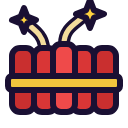
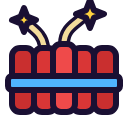
Power-ups: blue trim at level 2, gold at level 3; Magnet level 2 and 3 reshaped
Claude-Session: https://claude.ai/code/session_01Eixp3MaR2R82VtNQ8AyK7x

Changed region(s): [[0.0625, 0.5938, 0.9375, 0.6875]]

diff --git a/src/graphics/powerup_models.cpp b/src/graphics/powerup_models.cpp
@@ -191,11 +191,16 @@ constexpr std::uint32_t purple = 0x8A3DF0, lilac = 0xC9A2FF, orange = 0xF28A2E, 
                         gold = 0xF2C53D, pink_tip = 0xF0D0F0, ring_green = 0x2FCF4A, atom_purple = 0xA24BFF, orbit = 0xB78CFF, electron = 0xFFD23F,
                         white = 0xF4F1EA, flame = 0xFFA63F, gun_green = 0x2FBF68, grip_green = 0x1F8A4C, beam = 0x6FFFB0, spark_blue = 0x6FD3FF;
 
+// The level's trim (the owner, 2026-11-21: one rule for levelling up): each
+// power-up's trim (stripes, band, tips, orbits, rings) is its own colour at
+// level 1, blue at level 2 and gold at level 3 (as the icons, powerups.py).
+std::uint32_t trim(int level, std::uint32_t base) { return level == 1 ? base : level == 2 ? 0x4FB4FFu : 0xFFC53Du; }
+
 // The models, each in the first part's space of the game's own (its units).
 // Firecracker: along z from about +1,600 (the fuse's end) to -5,800 (the
 // cone's tip), about 1,000 across.
-std::vector<Part> one_rocket() {
-    Part body{purple, {}}, stripes{lilac, {}}, tip{orange, {}}, fuse{fuse_tan, {}};
+std::vector<Part> one_rocket(std::uint32_t stripe = lilac) {
+    Part body{purple, {}}, stripes{stripe, {}}, tip{orange, {}}, fuse{fuse_tan, {}};
     tube(body, 0.0f, -4200.0f, 620.0f);
     for (int s = 0; s < 3; ++s) tube(stripes, -900.0f - 1200.0f * float(s), -1300.0f - 1200.0f * float(s), 650.0f, 8, false);
     cone(tip, -4200.0f, -5800.0f, 820.0f);
@@ -204,17 +209,18 @@ std::vector<Part> one_rocket() {
 }
 std::vector<Part> firecracker(int level) {
     if (level == 1) return one_rocket();
-    if (level == 2) return placed(one_rocket(), place_at(V3{0, 0, 600}), 1.2f);
+    const std::uint32_t t = trim(level, lilac);
+    if (level == 2) return placed(one_rocket(t), place_at(V3{0, 0, 600}), 1.2f);
     // Three rockets, side by side, the middle one higher.
-    auto out = placed(one_rocket(), turned(0, -12, 0, V3{-1500, 0, 400}), 0.8f);
-    out = merged(out, placed(one_rocket(), turned(0, 12, 0, V3{1500, 0, 400}), 0.8f));
-    return merged(out, placed(one_rocket(), place_at(V3{0, 0, -300}), 0.85f));
+    auto out = placed(one_rocket(t), turned(0, -12, 0, V3{-1500, 0, 400}), 0.8f);
+    out = merged(out, placed(one_rocket(t), turned(0, 12, 0, V3{1500, 0, 400}), 0.8f));
+    return merged(out, placed(one_rocket(t), place_at(V3{0, 0, -300}), 0.85f));
 }
 
 // Dynamite: sticks along y, from about -1,500 to 1,500, fuses above to 2,100,
 // across x and z about ±770.
 std::vector<Part> dynamite(int level) {
-    Part sticks{red, {}}, front{bright_red, {}}, band{gold, {}}, fuse{fuse_tan, {}}, spark{electron, {}};
+    Part sticks{red, {}}, front{bright_red, {}}, band{trim(level, gold), {}}, fuse{fuse_tan, {}}, spark{electron, {}};
     std::vector<std::pair<float, float>> at;  // x, z of each stick
     if (level == 1) at = {{-640, 0}, {0, 0}, {640, 0}};
     else if (level == 2) at = {{-1280, 0}, {-640, 0}, {0, 0}, {640, 0}, {1280, 0}};
@@ -239,27 +245,41 @@ std::vector<Part> dynamite(int level) {
 
 // Electro Magnet: its claws point along -z (to about -3,700) from a green
 // ring at about z 150 to 730, about 940 across.
-std::vector<Part> horseshoe(float s) {
-    Part arms{red, {}}, tips{pink_tip, {}}, base{ring_green, {}}, sparks{spark_blue, {}};
+std::vector<Part> horseshoe(float s, std::uint32_t tip, bool sparks_on) {
+    Part arms{red, {}}, tips{tip, {}}, sparks{spark_blue, {}};
     box(arms, place_at(V3{-650 * s, 0, -900 * s}), 280 * s, 320 * s, 1500 * s);
     box(arms, place_at(V3{650 * s, 0, -900 * s}), 280 * s, 320 * s, 1500 * s);
     box(arms, place_at(V3{0, 0, 520 * s}), 930 * s, 320 * s, 260 * s);
     box(tips, place_at(V3{-650 * s, 0, -2700 * s}), 300 * s, 340 * s, 300 * s);
     box(tips, place_at(V3{650 * s, 0, -2700 * s}), 300 * s, 340 * s, 300 * s);
-    ring(base, place_at(V3{0, 0, 900 * s}), 950 * s, 180 * s);
-    for (int side = -1; side <= 1; side += 2)
-        chain(sparks, {V3{side * 1300 * s, 0, -1800 * s}, V3{side * 1600 * s, 0, -1500 * s}, V3{side * 1350 * s, 0, -1200 * s}, V3{side * 1650 * s, 0, -900 * s}}, 55 * s);
-    return {arms, tips, base, sparks};
+    if (sparks_on)
+        for (int side = -1; side <= 1; side += 2)
+            chain(sparks, {V3{side * 1300 * s, 0, -1800 * s}, V3{side * 1600 * s, 0, -1500 * s}, V3{side * 1350 * s, 0, -1200 * s}, V3{side * 1650 * s, 0, -900 * s}}, 55 * s);
+    return {arms, tips, sparks};
 }
 std::vector<Part> magnet(int level) {
-    if (level < 3) return horseshoe(level == 1 ? 1.0f : 1.2f);
-    // The game's own form: four claws curving up and out of the ring.
-    Part claws{red, {}}, tips{pink_tip, {}}, base{ring_green, {}};
+    // Level 1 a horseshoe; level 2 two, fanned out (the owner: a clear step);
+    // level 3 the game's own form, four claws that curve out and hook back in
+    // at the top (the owner); all on the green ring.
+    Part base{ring_green, {}};
+    if (level == 1) {
+        ring(base, place_at(V3{0, 0, 900}), 950.0f, 180.0f);
+        return merged(horseshoe(1.0f, pink_tip, true), {base});
+    }
+    if (level == 2) {
+        ring(base, place_at(V3{0, 0, 900}), 1500.0f, 200.0f);
+        auto out = placed(horseshoe(0.8f, trim(2, pink_tip), false), turned(0, -18, 0, V3{-950, 0, 300}), 1.0f);
+        out = merged(out, placed(horseshoe(0.8f, trim(2, pink_tip), false), turned(0, 18, 0, V3{950, 0, 300}), 1.0f));
+        return merged(out, {base});
+    }
+    Part claws{red, {}}, tips{trim(3, pink_tip), {}};
     for (int k = 0; k < 4; ++k) {
         const float a = 6.2831853f * (float(k) + 0.5f) / 4.0f, cx = std::cos(a), cy = std::sin(a);
-        const std::vector<V3> pts{V3{cx * 500, cy * 500, 600}, V3{cx * 700, cy * 700, -500}, V3{cx * 1100, cy * 1100, -1700}, V3{cx * 1600, cy * 1600, -2700}};
+        // Out from the ring, round, and back in at the top, the tip pointing inwards.
+        const std::vector<V3> pts{V3{cx * 500, cy * 500, 600}, V3{cx * 1100, cy * 1100, -400}, V3{cx * 1550, cy * 1550, -1500},
+                                  V3{cx * 1450, cy * 1450, -2500}, V3{cx * 900, cy * 900, -3100}};
         chain(claws, pts, 230.0f);
-        ball(tips, place_at(pts.back() + V3{cx * 80, cy * 80, -150}), 300.0f, 3, 6);
+        ball(tips, place_at(pts.back() + V3{-cx * 150, -cy * 150, 60}), 300.0f, 3, 6);
     }
     ring(base, place_at(V3{0, 0, 700}), 900.0f, 200.0f);
     return {claws, tips, base};
@@ -268,7 +288,7 @@ std::vector<Part> magnet(int level) {
 // Atom: about its middle, the nucleus about 1,000 across, its electrons about
 // 1,400 out.
 std::vector<Part> atom(int level) {
-    Part nucleus{atom_purple, {}}, orbits{orbit, {}}, electrons{electron, {}};
+    Part nucleus{atom_purple, {}}, orbits{trim(level, orbit), {}}, electrons{electron, {}};
     ball(nucleus, Place{}, level == 1 ? 480.0f : 560.0f, 5, 10);
     const int n_orbits = level < 3 ? 3 : 4, per = level == 1 ? 1 : 2;
     for (int o = 0; o < n_orbits; ++o) {
@@ -284,11 +304,11 @@ std::vector<Part> atom(int level) {
 }
 
 // Bomb: a missile along z, its nose to -z (about -4,000), fins about ±1,500.
-std::vector<Part> missile(float flame_len) {
-    Part body{white, {}}, reds{red, {}}, fire{flame, {}};
+std::vector<Part> missile(float flame_len, std::uint32_t band_colour = red) {
+    Part body{white, {}}, reds{red, {}}, band{band_colour, {}}, fire{flame, {}};
     tube(body, 1100.0f, -2400.0f, 700.0f);
     tube(reds, Place{}, -2400.0f, -3900.0f, 700.0f, 0.0f, 8, true);
-    tube(reds, -700.0f, -1100.0f, 730.0f, 8, false);
+    tube(band, -700.0f, -1100.0f, 730.0f, 8, false);
     for (int k = 0; k < 4; ++k) {
         const Place pl = turned(0, 0, 45.0f + 90.0f * float(k));
         Place fin = pl;
@@ -296,25 +316,26 @@ std::vector<Part> missile(float flame_len) {
         box(reds, fin, 450.0f, 70.0f, 400.0f);
     }
     tube(fire, Place{}, 1100.0f, 1100.0f + flame_len, 450.0f, 0.0f, 8, true);
-    return {body, reds, fire};
+    return {body, reds, band, fire};
 }
 std::vector<Part> bomb(int level) {
     if (level == 1) return missile(700.0f);
-    if (level == 2) return placed(missile(1200.0f), Place{}, 1.15f);
-    return merged(placed(missile(900.0f), place_at(V3{-1100, 0, 200}), 0.72f), placed(missile(900.0f), place_at(V3{1100, 0, -200}), 0.72f));
+    if (level == 2) return placed(missile(1200.0f, trim(2, red)), Place{}, 1.15f);
+    return merged(placed(missile(900.0f, trim(3, red)), place_at(V3{-1100, 0, 200}), 0.72f),
+                  placed(missile(900.0f, trim(3, red)), place_at(V3{1100, 0, -200}), 0.72f));
 }
 
 // Ray Gun: its barrel to -z, about ±1,800 across, -3,500 to 900 along z.
 std::vector<Part> raygun(int level) {
-    Part body{gun_green, {}}, grip{grip_green, {}}, rings{gold, {}}, ray{beam, {}};
+    Part body{gun_green, {}}, grip{grip_green, {}}, rings{trim(level, gold), {}}, nozzle{gold, {}}, ray{beam, {}};
     tube(body, Place{}, 900.0f, -900.0f, 900.0f, 800.0f, 10, true);
-    tube(rings, Place{}, -900.0f, -2300.0f, 500.0f, 260.0f, 8, true);
+    tube(nozzle, Place{}, -900.0f, -2300.0f, 500.0f, 260.0f, 8, true);
     for (int r = 0; r < (level == 1 ? 2 : 3); ++r) tube(rings, 400.0f - 500.0f * float(r), 150.0f - 500.0f * float(r), 940.0f, 10, true);
     box(grip, turned(-20, 0, 0, V3{0, -1200, 500}), 280.0f, 700.0f, 300.0f);
     const float reach = level == 1 ? 900.0f : level == 2 ? 1200.0f : 1500.0f, width = level == 1 ? 90.0f : level == 2 ? 150.0f : 220.0f;
     tube(ray, -2300.0f, -2300.0f - reach, width, 6);
     if (level == 3) ball(ray, place_at(V3{0, 0, -2400}), 380.0f, 3, 8);
-    return {body, grip, rings, ray};
+    return {body, grip, rings, nozzle, ray};
 }
 
 std::vector<Part> model(int kind, int level) {

diff --git a/tools/art/powerups.py b/tools/art/powerups.py
@@ -13,6 +13,17 @@ INK = '#1a1033'
 O = f'stroke="{INK}" stroke-width="3" stroke-linejoin="round" stroke-linecap="round"'
 
 
+# The level's trim (the owner, 2026-11-21: "different colour stripes", one rule
+# for levelling up; level 2 more blue): each power-up's trim (stripes, band,
+# tips, orbits, rings) is its own colour at level 1 (as the game's models), blue
+# at level 2 and gold at level 3, the same parts on every power-up.
+BLUE, GOLD = '#4fb4ff', '#ffc53d'
+
+
+def accent(level, base, yellow=False):
+    return base if level == 1 else BLUE if level == 2 else GOLD
+
+
 def fuse(d):
     # A light fuse with a dark edge, so it shows on the dark panel.
     return (f'<path d="{d}" fill="none" stroke="{INK}" stroke-width="6" stroke-linecap="round"/>'
@@ -25,12 +36,12 @@ def spark(x, y, r=8):
             f'fill="#ffd23f" {O} stroke-width="2"/>')
 
 
-def rocket(cx, cy, angle, scale=1.0):
+def rocket(cx, cy, angle, scale=1.0, stripe='#c9a2ff'):
     # A firework rocket: a purple tube with light stripes, an orange cone, a fuse.
     return (f'<g transform="translate({cx} {cy}) rotate({angle}) scale({scale})">'
             f'{fuse("M0 22 C0 27 -4 29 -6 31")}'
             f'<rect x="-7" y="-12" width="14" height="34" rx="2" fill="#8a3df0" {O}/>'
-            f'<path d="M-7 -4 L7 -9 M-7 6 L7 1 M-7 16 L7 11" stroke="#c9a2ff" stroke-width="3"/>'
+            f'<path d="M-7 -4 L7 -9 M-7 6 L7 1 M-7 16 L7 11" stroke="{stripe}" stroke-width="3"/>'
             f'<rect x="-7" y="-12" width="14" height="34" rx="2" fill="none" {O}/>'
             f'<path d="M-10 -12 L0 -28 L10 -12 Z" fill="#f28a2e" {O}/>'
             f'</g>')
@@ -40,8 +51,9 @@ def firecracker(level):
     if level == 1:
         return rocket(34, 31, 35) + spark(16, 52, 6)
     if level == 2:
-        return rocket(34, 31, 35, 1.1) + spark(15, 54, 7) + spark(55, 9, 5)
-    return (rocket(20, 38, 0, 0.85) + rocket(44, 38, 35, 0.85) + rocket(32, 34, 15, 0.95)
+        return rocket(34, 31, 35, 1.1, accent(2, '')) + spark(15, 54, 7) + spark(55, 9, 5)
+    g = accent(3, '')
+    return (rocket(20, 38, 0, 0.85, g) + rocket(44, 38, 35, 0.85, g) + rocket(32, 34, 15, 0.95, g)
             + spark(54, 8, 6) + spark(9, 12, 5))
 
 
@@ -61,7 +73,7 @@ def dynamite(level):
         fuses = (fuse("M32 22 C32 14 38 12 42 8") + spark(45, 7, 7) + fuse("M22 23 C21 17 17 15 14 12") + spark(12, 10, 6)
                  + fuse("M41 24 C44 18 50 18 54 15") + spark(56, 14, 5))
     body = ''.join(stick(x, 22 if c == '#ef4a4a' else 24, 34 if c == '#ef4a4a' else 32, c) for x, c in xs)
-    return fuses + body + f'<rect x="{min(x for x, _ in xs) - 2}" y="38" width="{max(x for x, _ in xs) - min(x for x, _ in xs) + 15}" height="7" rx="2" fill="#f2c53d" {O}/>'
+    return fuses + body + f'<rect x="{min(x for x, _ in xs) - 2}" y="38" width="{max(x for x, _ in xs) - min(x for x, _ in xs) + 15}" height="7" rx="2" fill="{accent(level, '#f2c53d', True)}" {O}/>'
 
 
 def arcs(n):
@@ -79,12 +91,12 @@ def ring_base(cx, cy, rx, ry):
             f'<ellipse cx="{cx}" cy="{cy - 1.5}" rx="{rx * 0.62}" ry="{ry * 0.5}" fill="#123d1a" stroke="#7dff8a" stroke-width="1.5"/>')
 
 
-def horseshoe(cx, top, scale):
+def horseshoe(cx, top, scale, tip='#f0d0f0'):
     # A red horseshoe opening upwards, pale pink tips (the model's colours).
     return (f'<g transform="translate({cx} {top}) scale({scale}) translate(-32 -8)">'
             f'<path d="M14 10 H26 V34 A6 6 0 0 0 38 34 V10 H50 V34 A18 18 0 0 1 14 34 Z" fill="#d93636" {O}/>'
-            f'<rect x="14" y="8" width="12" height="9" fill="#f0d0f0" {O}/>'
-            f'<rect x="38" y="8" width="12" height="9" fill="#f0d0f0" {O}/>'
+            f'<rect x="14" y="8" width="12" height="9" fill="{tip}" {O}/>'
+            f'<rect x="38" y="8" width="12" height="9" fill="{tip}" {O}/>'
             f'</g>')
 
 
@@ -95,26 +107,31 @@ def claw(d):
 
 
 def magnet(level):
-    # Level 1 a horseshoe magnet, level 2 a bigger one, level 3 the game's own
-    # form (the owner, 2026-11-21): four red claws curving up and out of a
-    # green ring, pale pink tips; all on the green ring.
+    # Level 1 a horseshoe magnet; level 2 two, fanned out (the owner: a clear
+    # step from level 1); level 3 the game's own form, four red claws that curve
+    # out and hook back in at the top, like a claw (the owner); all on the
+    # game's green ring.
     if level == 3:
         out = '<circle cx="32" cy="30" r="27" fill="#6fd3ff" fill-opacity="0.14"/>'
-        claws = ["M24 48 C18 40 12 28 9 16", "M29 47 C27 36 24 24 23 10", "M35 47 C37 36 40 24 41 10", "M40 48 C46 40 52 28 55 16"]
+        claws = ["M25 48 C15 40 8 27 11 14 C12 9 16 8 19 11",
+                 "M29 47 C24 36 20 24 23 12 C24 8 27 7 29 10",
+                 "M35 47 C40 36 44 24 41 12 C40 8 37 7 35 10",
+                 "M39 48 C49 40 56 27 53 14 C52 9 48 8 45 11"]
         out += ''.join(claw(d) for d in claws[1:3]) + ''.join(claw(d) for d in (claws[0], claws[3]))
-        for x, y in [(9, 16), (23, 10), (41, 10), (55, 16)]:
-            out += f'<circle cx="{x}" cy="{y}" r="4" fill="#f0d0f0" {O} stroke-width="2"/>'
-        return out + ring_base(32, 52, 15, 6) + arcs(3)
-    # The magnet's bend sits in the ring (the ring drawn first, behind it).
-    scale = 0.8 if level == 1 else 0.95
-    top = 11 if level == 1 else 6
-    bottom = top + 44 * scale
-    return ring_base(32, bottom, 19 if level == 1 else 22, 6.5) + horseshoe(32, top, scale) + arcs(level)
+        for x, y in [(19, 11), (29, 10), (35, 10), (45, 11)]:
+            out += f'<circle cx="{x}" cy="{y}" r="3.6" fill="{accent(3, "")}" {O} stroke-width="2"/>'
+        return out + ring_base(32, 52, 15, 6)
+    if level == 2:
+        tip = accent(2, '')
+        left = f'<g transform="rotate(-16 32 54)">{horseshoe(22, 13, 0.62, tip)}</g>'
+        right = f'<g transform="rotate(16 32 54)">{horseshoe(42, 13, 0.62, tip)}</g>'
+        return ring_base(32, 44, 24, 7) + left + right
+    return ring_base(32, 46, 19, 6.5) + horseshoe(32, 11, 0.8, accent(1, '#f0d0f0')) + arcs(1)
 
 
 def atom(level):
     orbits = 3 if level < 3 else 4
-    out = '<g fill="none" stroke="#b78cff" stroke-width="3.5">'
+    out = f'<g fill="none" stroke="{accent(level, "#b78cff")}" stroke-width="3.5">'
     for i in range(orbits):
         out += f'<ellipse cx="32" cy="32" rx="26" ry="10" transform="rotate({i * 180 / orbits} 32 32)"/>'
     out += '</g>'
@@ -134,14 +151,14 @@ def atom(level):
     return out
 
 
-def missile(cx, cy, angle, scale=1.0, flame=1.0):
+def missile(cx, cy, angle, scale=1.0, flame=1.0, band='#d93636'):
     return (f'<g transform="translate({cx} {cy}) rotate({angle}) scale({scale})">'
             f'<path d="M-4 18 L0 {18 + 10 * flame} L4 18 Z" fill="#ffa63f" {O} stroke-width="2"/>'
             f'<path d="M-8 14 L-16 24 L-8 22 Z" fill="#d93636" {O}/>'
             f'<path d="M8 14 L16 24 L8 22 Z" fill="#d93636" {O}/>'
             f'<path d="M-8 18 V-10 C-8 -20 0 -28 0 -28 C0 -28 8 -20 8 -10 V18 Z" fill="#f4f1ea" {O}/>'
             f'<path d="M-7.5 -12 C-7 -19 0 -27 0 -27 C0 -27 7 -19 7.5 -12 Z" fill="#d93636" {O}/>'
-            f'<rect x="-8" y="2" width="16" height="5" fill="#d93636" {O} stroke-width="2"/>'
+            f'<rect x="-8" y="2" width="16" height="5" fill="{band}" {O} stroke-width="2"/>'
             f'</g>')
 
 
@@ -149,8 +166,8 @@ def bomb(level):
     if level == 1:
         return missile(34, 30, 45, 0.95)
     if level == 2:
-        return missile(33, 31, 45, 1.08, 1.6)
-    return missile(20, 36, 20, 0.72, 1.4) + missile(44, 30, 20, 0.72, 1.4)
+        return missile(33, 31, 45, 1.08, 1.6, accent(2, ''))
+    return missile(20, 36, 20, 0.72, 1.4, accent(3, '')) + missile(44, 30, 20, 0.72, 1.4, accent(3, ''))
 
 
 def raygun(level):
@@ -161,11 +178,12 @@ def raygun(level):
             3: '<circle cx="58" cy="23" r="7" fill="#6fffb0" fill-opacity="0.35"/>'
                '<path d="M53 23 H64" stroke="#d8ffe9" stroke-width="6" stroke-linecap="round"/>'
                '<path d="M55 14 L63 8 M55 32 L63 38 M56 19 L64 17 M56 27 L64 29" stroke="#6fffb0" stroke-width="3" stroke-linecap="round"/>'}[level]
-    rings = '' if level == 1 else f'<rect x="39" y="15" width="4" height="16" fill="#f2c53d" {O} stroke-width="2"/>'
+    ring_colour = accent(level, '#f2c53d', True)
+    rings = '' if level == 1 else f'<rect x="39" y="15" width="4" height="16" fill="{ring_colour}" {O} stroke-width="2"/>'
     return (f'<path d="M18 34 L14 54 H24 L28 38 Z" fill="#1f8a4c" {O}/>'
             f'<path d="M8 22 C8 16 14 14 20 14 H40 C44 14 46 18 46 22 C46 28 44 34 40 34 H20 C14 34 8 30 8 22 Z" fill="#2fbf68" {O}/>'
-            f'<rect x="21" y="13" width="5" height="22" fill="#f2c53d" {O} stroke-width="2.5"/>'
-            f'<rect x="30" y="13" width="5" height="22" fill="#f2c53d" {O} stroke-width="2.5"/>'
+            f'<rect x="21" y="13" width="5" height="22" fill="{ring_colour}" {O} stroke-width="2.5"/>'
+            f'<rect x="30" y="13" width="5" height="22" fill="{ring_colour}" {O} stroke-width="2.5"/>'
             + rings +
             f'<path d="M46 19 H52 V27 H46" fill="#f2c53d" {O}/>' + beam)
 

diff --git a/CHANGES-SINCE-BLOCKSPHERE.md b/CHANGES-SINCE-BLOCKSPHERE.md
@@ -694,3 +694,4 @@ Internal names (the `tetrisphere` executable, CMake targets, and data paths) are
 - 2026-11-21, HUD: the Magnet's icons (the owner): a horseshoe magnet, a bigger one, then at level 3 the game's own form, four red claws curving up and out with pale pink tips; all standing in the green ring the game's model has.
 - 2026-11-21, Power-ups (research, off by default): BlockPlanet's own 3D power-up models can replace the game's (the owner: keep the 3D, in the icons' style). The model helper's geometry is cut after it is written and BlockPlanet's own flat-coloured, lit shapes written in its place, keeping the game's placing and turning. First model: the Firecracker. `BLOCKPLANET_MODELS3D=1`; `BLOCKPLANET_MAGIC_DL_LOG=1` logs the game's commands for each power-up. docs/research/blockplanet-powerup-models.md.
 - 2026-11-21, Power-ups (research, off by default): all six of BlockPlanet's 3D power-up models at levels 1, 2 and 3, in the flat icons' colours, built once into free memory and called from the frame's list (docs/research/blockplanet-powerup-models.md). Not yet shown in play: the flight and the effect come next.
+- 2026-11-21, Power-ups: **one colour rule for levelling up** (the owner): each power-up's trim (the Firecracker's stripes, the Dynamite's band, the Magnet's tips, the Atom's orbits, the Bomb's band, the Ray Gun's rings) keeps its own colour at level 1, turns blue at level 2 and gold at level 3, on the flat icons and the 3D models alike. The Magnet's level 2 is now two magnets fanned out (the owner: too close to level 1), and its level 3 claws curve out and hook back in at the top, like a claw (the owner).

diff --git a/docs/HUD_DESIGN.md b/docs/HUD_DESIGN.md
@@ -156,3 +156,5 @@ Not shown in VS: mode and stage text, timer, score.
 ## Power-up icons (2026-11-21)
 
 The held power-up is BlockPlanet's own flat picture in the Magic box (the owner's choice over the game's spinning models): `assets/ui/powerups/NAME.png` (firecracker, dynamite, magnet, atom, bomb, raygun), drawn as SVG by `tools/art/powerups.py`, rendered by `tools/art/render_powerups.js`; 96dp in the ring, 56dp in the Training row and on portrait screens. Colours follow the game's models (looked at in the box: a purple rocket with an orange tip, red dynamite with a yellow band, red claws with pale tips, purple atom, red and white bomb, green and gold ray gun). Fuses are light with a dark edge, to show on the dark panel. **Levels:** NAME-2 and NAME-3 are grander versions (a bigger rocket, then three; five then seven sticks; more sparks, the Magnet a horseshoe, a bigger one, then the game's own claw form (four red claws with pale tips), all in the model's green ring (the owner); more electrons and a fourth orbit; a bigger flame, then two missiles; a wider beam), for when power-ups level up (the roadmap), possibly with a small "2" or "3" as well. The game's model is still loaded but drawn at no size (`set_magic_models_hidden`), so its flight when fired is the game's own.
+
+**Level colours (the owner, 2026-11-21):** one rule for every power-up: its trim (stripes, band, tips, orbits, rings) is its own colour at level 1, blue (#4fb4ff) at level 2, gold (#ffc53d) at level 3, as well as the level's grander form. Red was considered for level 3 but would not show on the red Dynamite, Magnet and Bomb.
